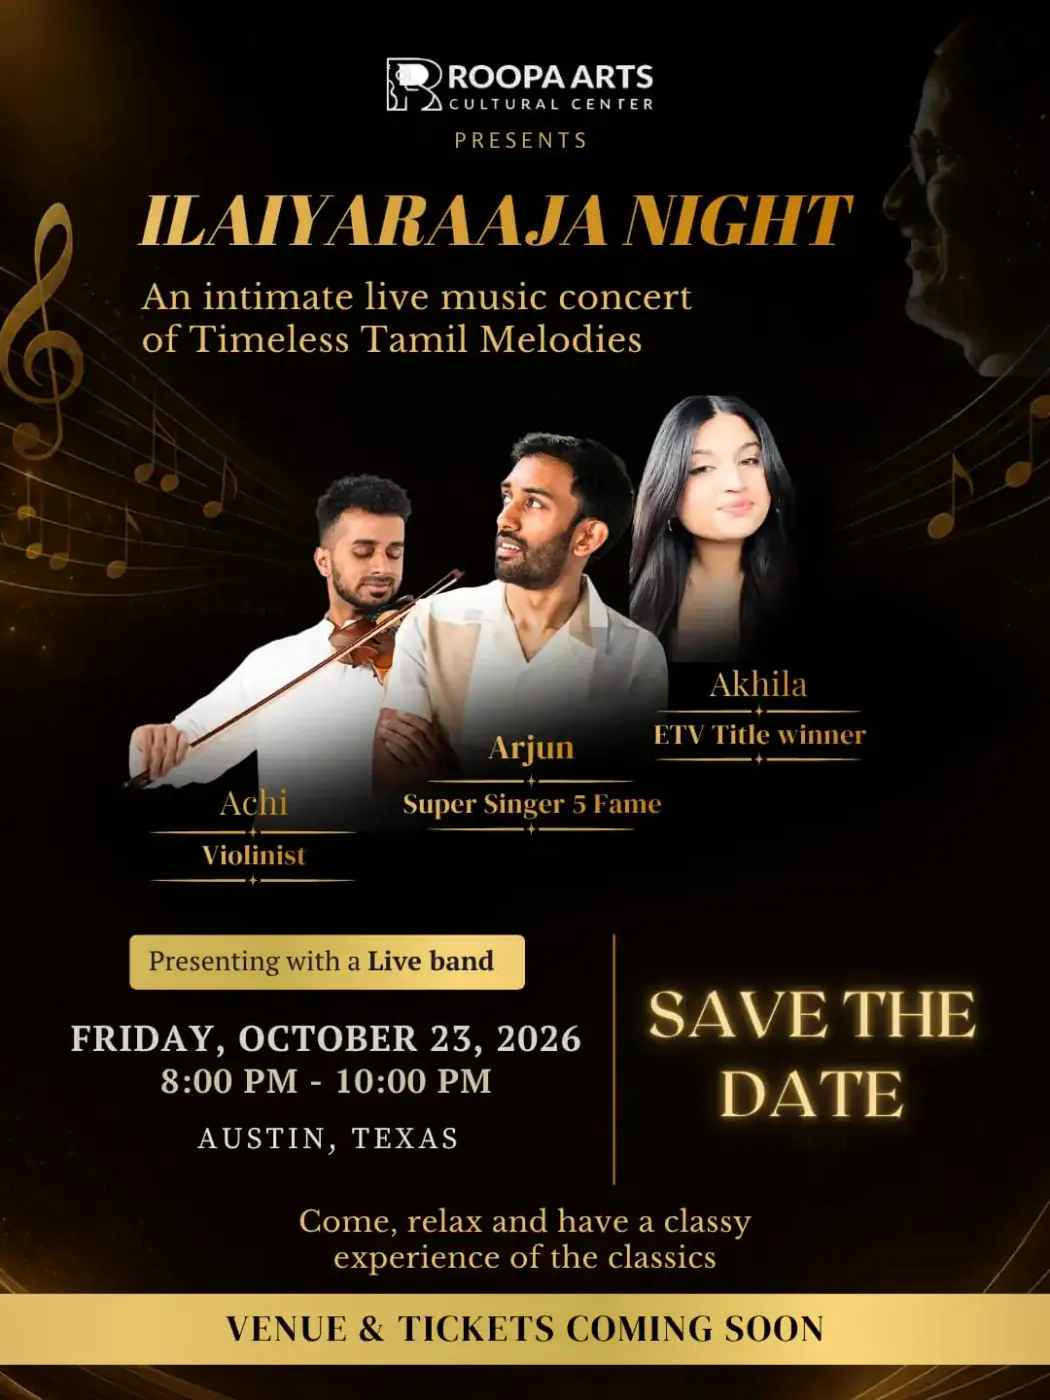
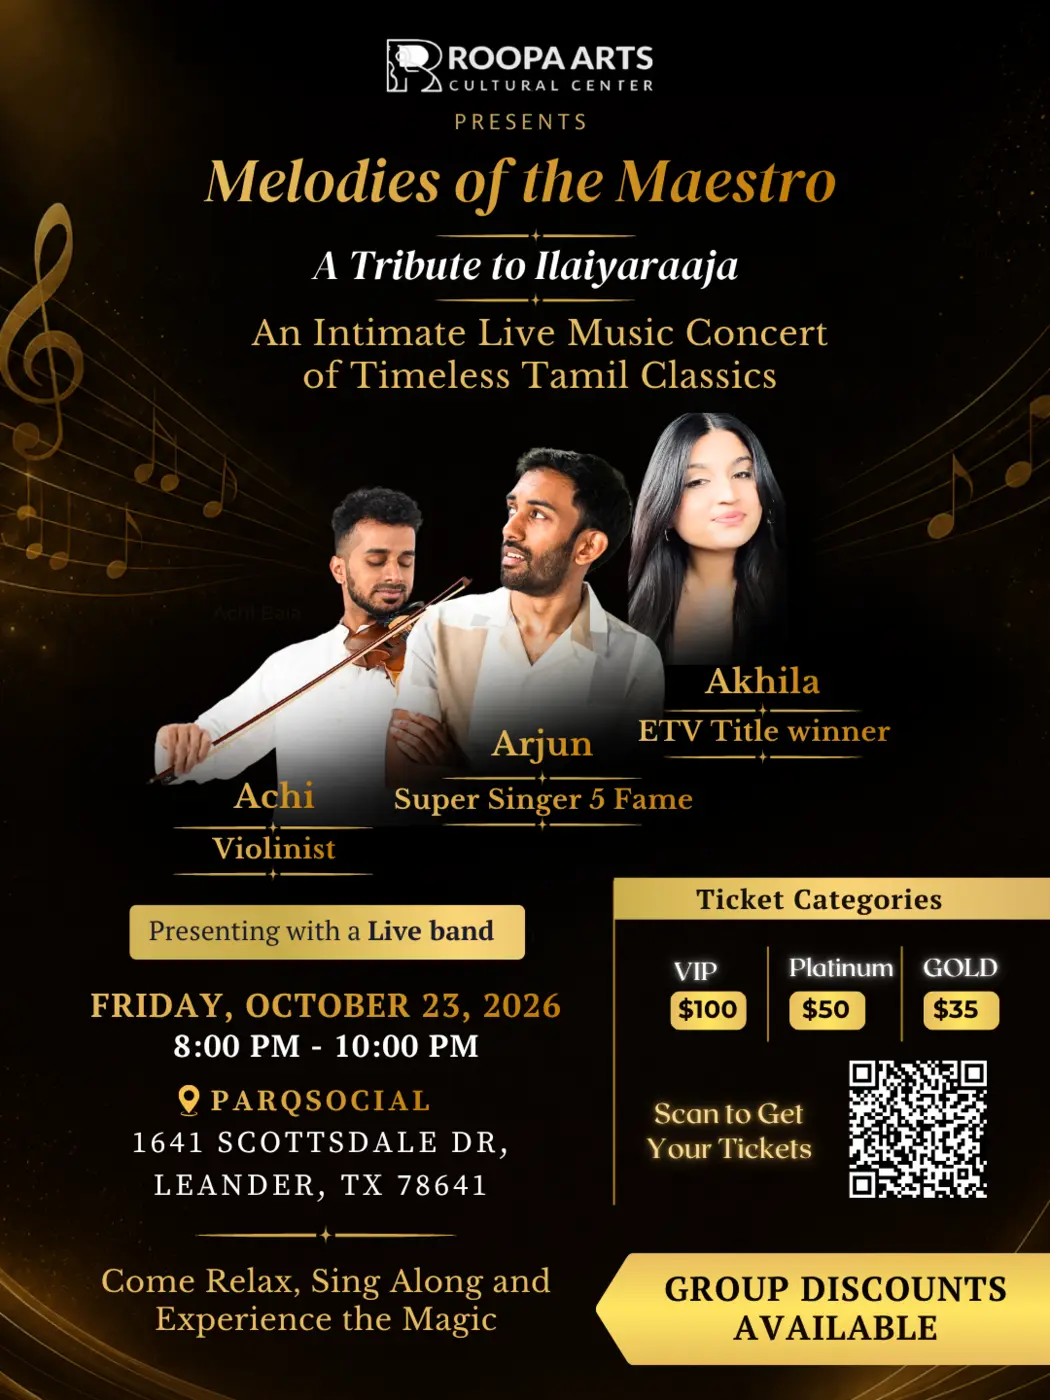
Add Ilaiyaraaja ticket link and updated flyer

Changed region(s): [[0.0, 0.0307, 1.0, 0.9829], [0.8533, 0.0307, 0.9143, 0.2457], [0.9143, 0.2457, 0.9752, 0.2764]]

diff --git a/content/events.ts b/content/events.ts
@@ -51,6 +51,8 @@ export interface RaccEventSource {
    */
   flyerAlt?: string
   rsvpUrl?: string
+  /** Overrides the default "RSVP" text for ticketed events. */
+  actionLabel?: string
   /**
    * Long-form detail for the featured production of an event, rendered on its own
    * page rather than on a landing page.
@@ -140,6 +142,8 @@ const source: RaccEventSource[] = [
       'Arjun, vocals (Super Singer 5 fame) · Akhila, vocals (ETV title winner) · ' +
       'Achi, violin · with live band',
     flyerImage: '/images/events/ilaiyaraaja-night.webp',
+    rsvpUrl: 'https://www.zeffy.com/en-US/ticketing/ilaiyaraaja-night-timeless-tamil-melodies',
+    actionLabel: 'Buy tickets',
   },
   {
     // Everything here is read off the save-the-date poster and nothing more: day,

diff --git a/pages/events/[slug].vue b/pages/events/[slug].vue
@@ -150,7 +150,7 @@ const gallery = computed(() => eventGalleries[String(route.params.slug)] ?? null
                 data-cursor="rsvp"
                 class="inline-flex items-center gap-3 bg-spot px-10 py-5 text-xs font-semibold uppercase tracking-rubric text-chalk transition-colors duration-500 hover:bg-spot-warm"
               >
-                RSVP<span class="sr-only"> for {{ event.title }}</span>
+                {{ event.actionLabel ?? 'RSVP' }}<span class="sr-only"> for {{ event.title }}</span>
                 <svg class="h-3 w-3" viewBox="0 0 24 24" fill="none" stroke="currentColor"
                   stroke-width="2.5" stroke-linecap="round" aria-hidden="true">
                   <path d="M5 12h14M13 6l6 6-6 6" />

diff --git a/components/SceneFeatured.vue b/components/SceneFeatured.vue
@@ -140,7 +140,7 @@ scene(
               data-cursor="rsvp"
               class="inline-flex items-center gap-3 bg-spot px-10 py-5 text-xs font-semibold uppercase tracking-rubric text-chalk transition-colors duration-500 hover:bg-spot-warm"
             >
-              RSVP<span class="sr-only"> for {{ event.title }}</span>
+              {{ event.actionLabel ?? 'RSVP' }}<span class="sr-only"> for {{ event.title }}</span>
               <svg class="h-3 w-3" viewBox="0 0 24 24" fill="none" stroke="currentColor"
                 stroke-width="2.5" stroke-linecap="round" aria-hidden="true">
                 <path d="M5 12h14M13 6l6 6-6 6" />
